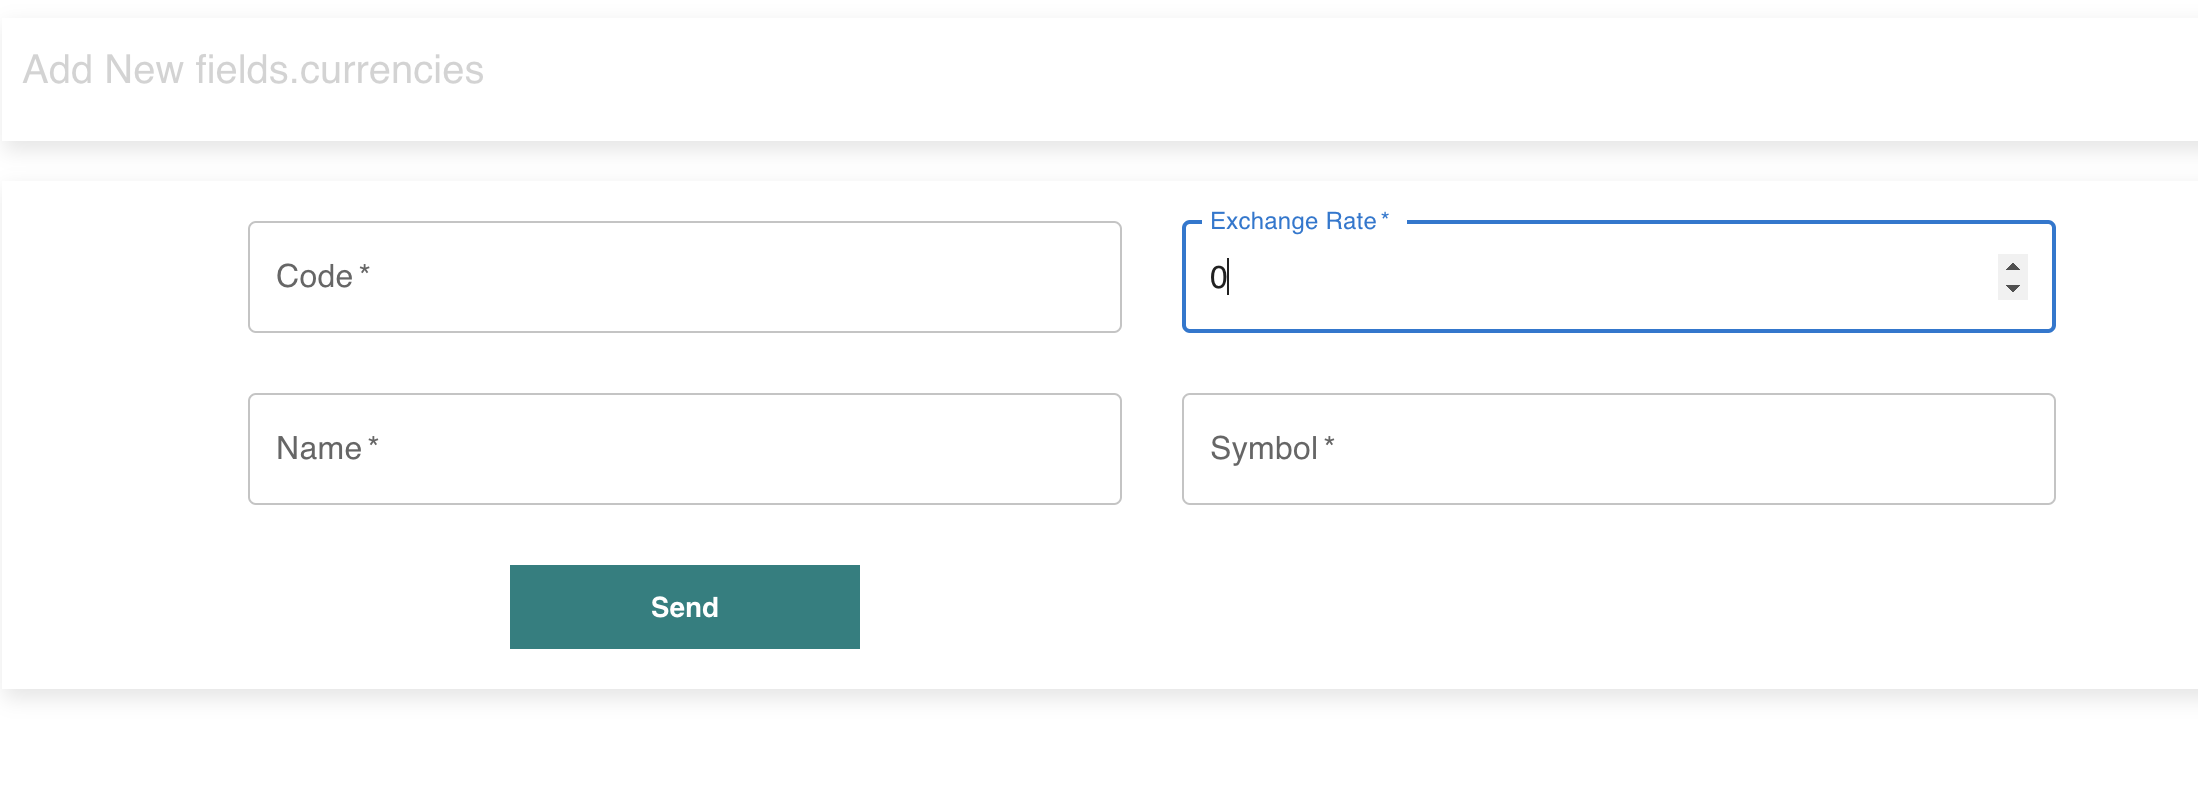
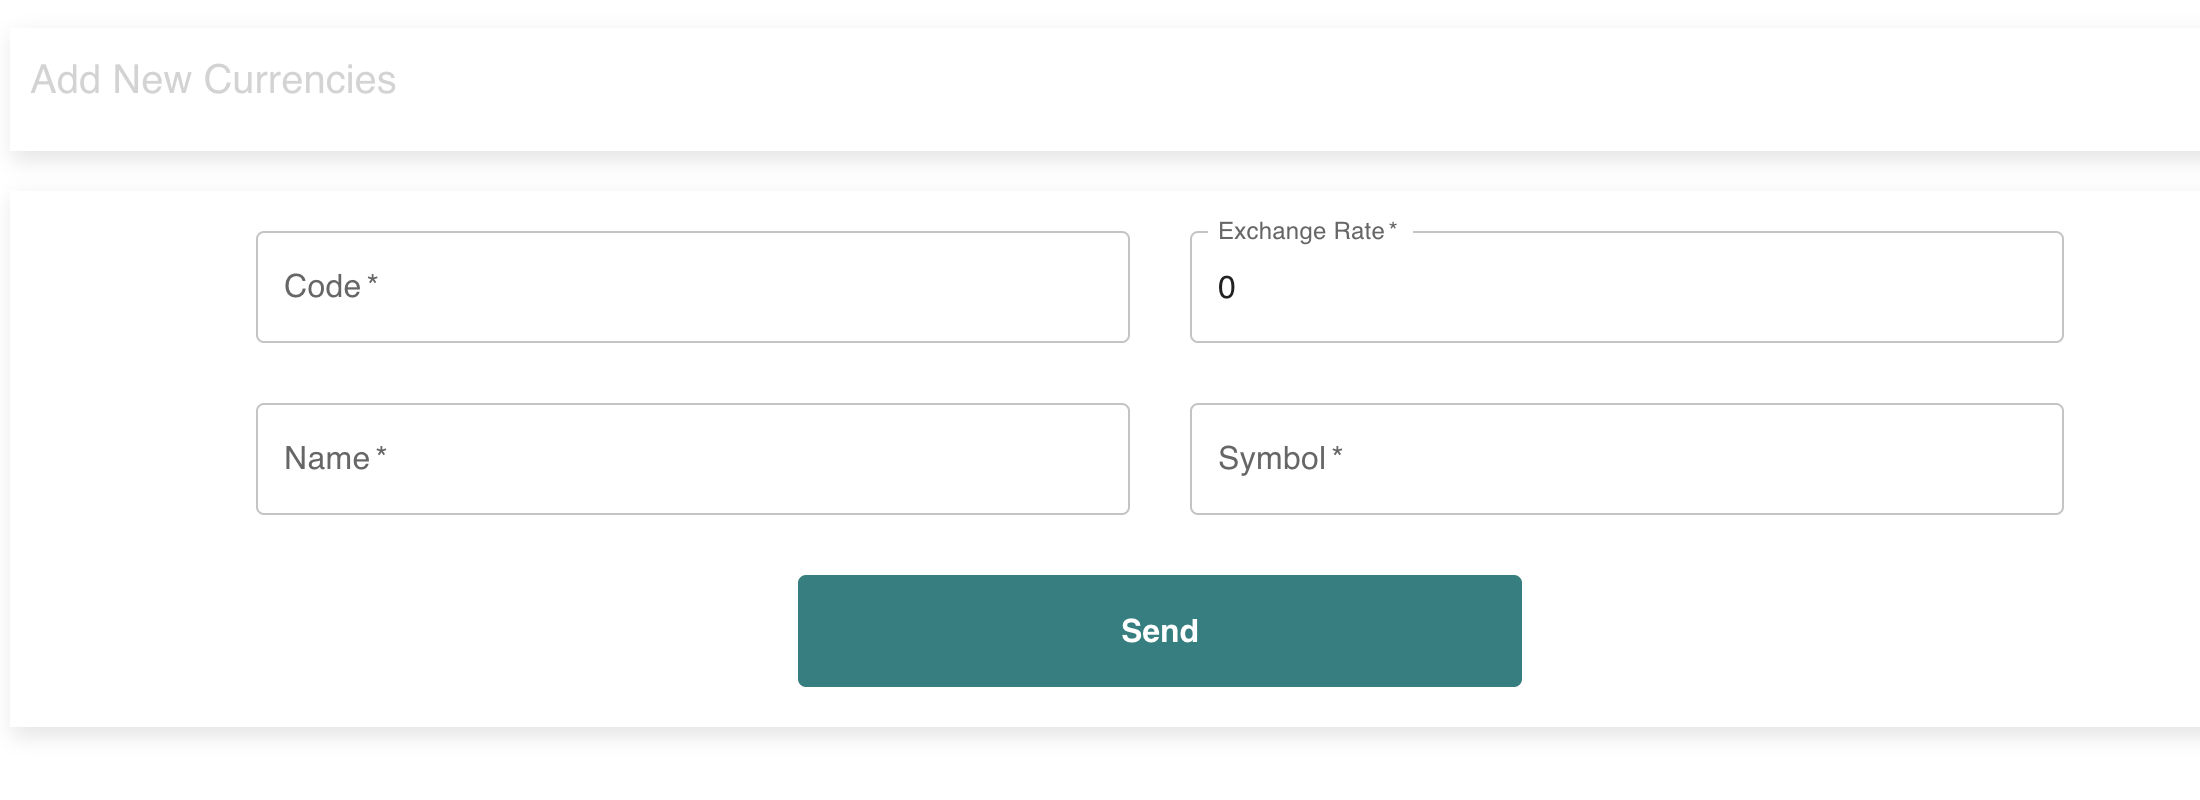
docs: update app currency change instructions for clarity and workflow

diff --git a/environment-setup.html b/environment-setup.html
@@ -218,40 +218,37 @@
         <section class="section" id="change-app-currency">
           <h2>App currency (change)</h2>
           <p>
-            Change the default currency from the <strong>Admin app</strong>.
-            This is the recommended flow for the whole suite and avoids manual backend edits.
+            Set the platform currency entirely from the <strong>Admin app</strong> — no changes in customer, driver, restaurant, or backend source code.
+            After you add a currency, choose it as the <strong>main</strong> currency in general app settings so every client uses it.
           </p>
 
-          <h3>Admin app workflow</h3>
-          <ol>
-            <li>
-              Ensure the currency exists under <strong>Currencies</strong> (resource <code>currencies</code>) — code, name, symbol, and exchange rate.
-            </li>
-            <li>
-              Open <strong>Settings</strong> → <strong>App Settings</strong> (document <code>app_settings</code>) and select that currency as the default.
-            </li>
-            <li>
-              Save, then restart or refresh mobile apps so they refetch settings (driver and restaurant apps also cache settings — clear cache or sign out/in if you still see the old symbol).
-            </li>
-          </ol>
+          <h3>1) Add a currency</h3>
+          <p>
+            Under <strong>Currencies</strong> (resource <code>currencies</code>), create the currency you need: code, name, symbol, and exchange rate.
+          </p>
           <p>
             <img
               src="./assets/images/add_currency.png"
-              alt="Add and select a currency in the admin app"
+              alt="Add a currency in the admin app"
               style="width: 100%; max-width: 760px; height: auto; border-radius: 10px; border: 1px solid var(--border); display: block;"
             />
           </p>
 
-          <h3>Customer app — static <code>global/constants.js</code> still used in many screens</h3>
+          <h3>2) Set it as the main currency</h3>
           <p>
-            Several customer-app components still import <code>currency</code> from <code>global/constants.js</code> for labels and formatting helpers.
-            After you change the backend default, update that constant (and any <code>EUR</code>/<code>USD</code>-specific UI branches) so on-device display matches server-side prices.
+            Open <strong>Settings</strong> → <strong>App Settings</strong> / general settings and select that currency as the default (main) currency for the platform, then save.
+          </p>
+          <p>
+            <img
+              src="./assets/images/update-currency-in-general-settings.png"
+              alt="Set the main currency in general app settings"
+              style="width: 100%; max-width: 760px; height: auto; border-radius: 10px; border: 1px solid var(--border); display: block;"
+            />
           </p>
 
-          <h3>Driver and restaurant apps — code-level defaults</h3>
+          <h3>3) Refresh clients</h3>
           <p>
-            Both apps include a <code>DEFAULT_CURRENCY</code> fallback in <code>utils/currencyUtils.js</code> when settings are missing.
-            Keep that fallback aligned with your real default if you rely on offline or error paths.
+            Restart or refresh mobile apps so they reload settings. Driver and restaurant apps may cache settings — clear cache or sign out and back in if the old symbol still appears.
           </p>
         </section>
 